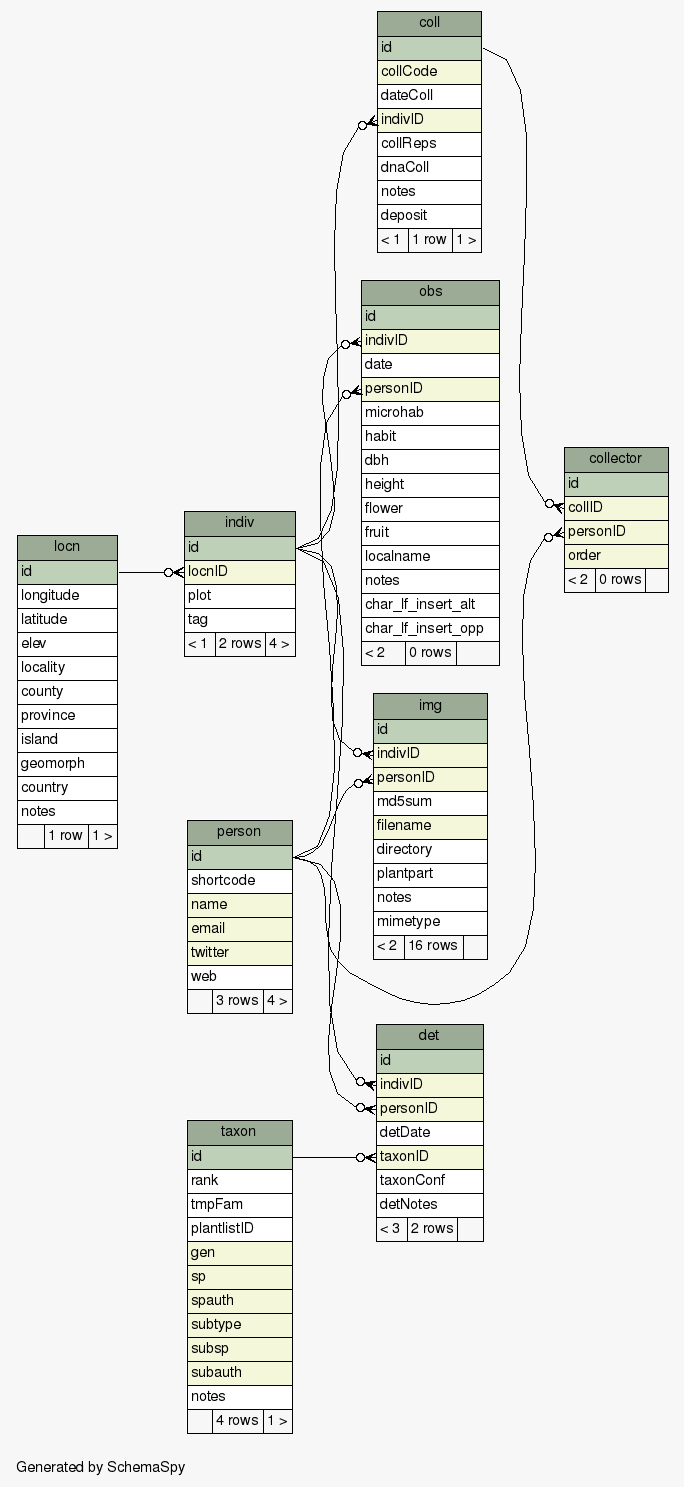
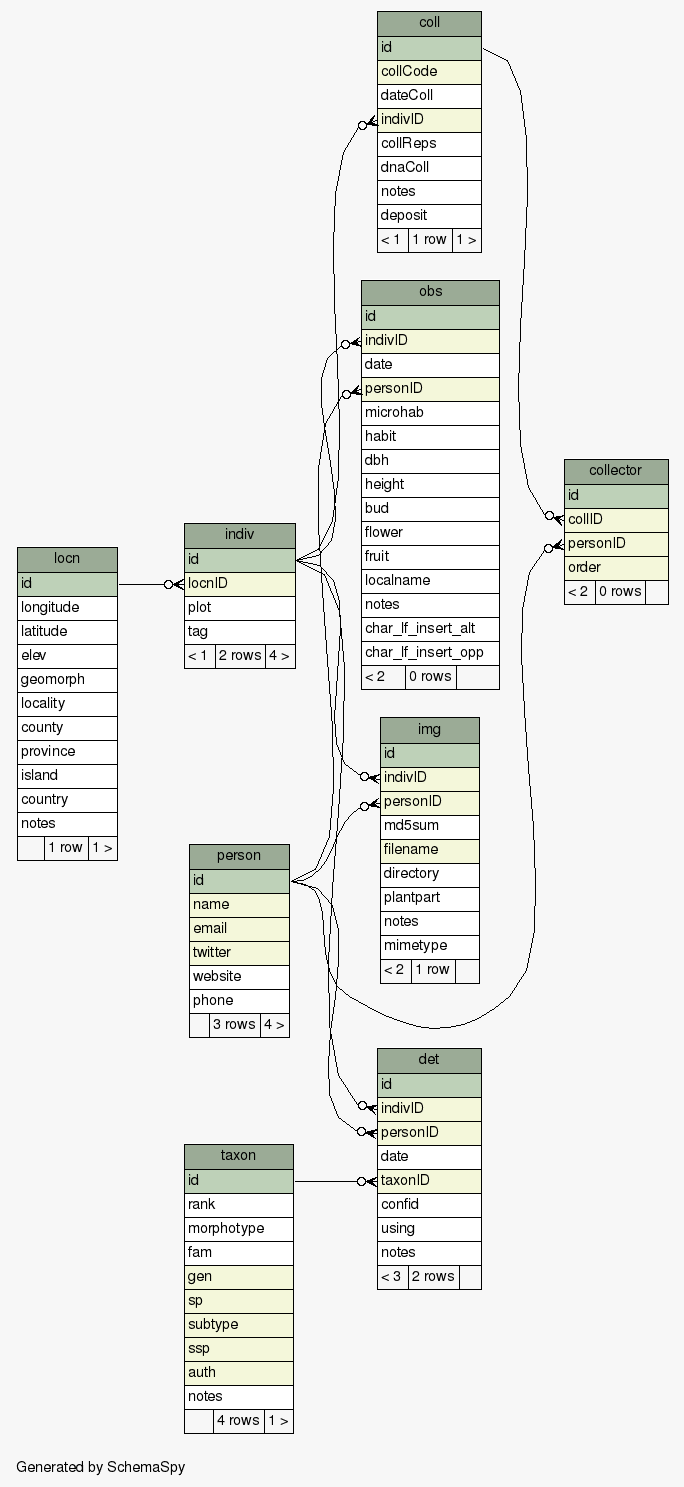
~complete DB specifications

diff --git a/doc/spreadsheet2db.md b/doc/spreadsheet2db.md
@@ -1,0 +1,81 @@
+# Guide for converting bulk spreadsheet entries to DB
+
+ * Key `spreadsheet_column` -> (Validation) -> `DB.field`; Notes
+ * Note: defaults are set in the DB
+ * Algorithm: 
+    * Read all lines of `Taxon`, and _for those that are referenced
+      in_ `Plant`, _and_ do not have a _valid_ `db_id`, create new
+      records (see below), storing the `taxon.id` values.
+    * Read all lines of `Person`, and _for those that are referenced
+      in_ `Plant`, _and_ do not have a _valid_ `db_id`, create new
+      records (see below), storing the `person.id` values.
+    * Read all lines of `Location`, and _for those that are referenced
+      in_ `Plant`, create new records, storing the `locn.id` values.
+
+## Sheet: Taxon
+
+For each row, if `db_id` NOT present, create new `taxon` record
+
+ * `unique_key`; ignore 
+ * `morphotype` -> (regex: `[A-Za-z0-9_]*`) -> `taxon.morphotype`
+ * `fam`, `gen`, `sp`, `auth`, `subtype`, `ssp`, `ssp_auth` -> (Free
+   text) -> `taxon.fam`, `taxon.gen`, `taxon.sp`,
+   `taxon.subtype`, `taxon.ssp`, `taxon.auth`
+ 
+## Sheet: Person
+
+For each row, if `db_id` NOT present, create new `person` record
+
+ * `unique_key`; disregard 
+ * `name`, `email`, `twitter`, `website` -> (Free
+   text) -> `name`, `email`, `twitter`, `website`
+ * `phone` -> (No leading zero or +) -> `phone`
+
+## Location
+
+ * `unique_id`; ignore
+ * `long` -> (Float) -> `locn.longitude`
+ * `lat` -> (Float) -> `locn.latitude`
+ * `elev` -> (Integer) -> `locn.elev`
+ * `geomorphology`, `locality`, `county`, `province`, `island`,
+   `country`, `notes` -> (Free text) -> `locn.geomorph`,
+   `locn.locality`, `locn.county`, `locn.province`, `locn.island`,
+   `locn.country`, `locn.notes`
+
+## Sheet: Plants
+
+Automatically triggers creation of a _new_ `obs` and `det` record.
+
+ * `unique_key`; temporary joining key, not entered into DB 
+ * `date` → (Date) -> `obs.date` 
+ * `obs_by` -> (existing `shortcode` in `Person` table) -> `obs.personID` 
+ * `locn` -> () -> `indiv.locnID`; _after_ creation of new location
+ * `microhab` -> (Free text) -> `bos.microhab`
+ * `plot` -> (Free text) -> `indiv.plot`
+ * `tag` -> (Free text) -> `indiv.tag`
+ * `habit` -> (Valid enum value) -> `obs.habit`
+ * `dbh` -> (Float) -> `obs.dbh`; make sure the first digit of the
+   decimal is preserved
+ * `height` -> (Float) -> `obs.height`; make sure the first two digits
+   of the decimal are preserved
+ * `bud` -> (`yes` or `no`) -> `obs.bud`
+ * `flower` -> (`yes` or `no`) -> `obs.flower`
+ * `fruit` -> (`yes` or `no`) -> `obs.fruit`
+ * `notes` -> (Free text) -> `obs.notes`
+ * `det` -> (existing `unique_key` in `Taxon` table); see Taxon table notes
+ * `confid` -> (Valid enum value) -> `det.confid`
+ * `det_by` -> (existing `person.shortcode` in DB) -> `det.personID`
+ * `det_date` -> (Date) -> `det.date`
+ * `det_using` -> (Free text) -> `det.using`
+ * `det_notes` -> (Free text) -> `det.notes`
+
+## Sheet: Photo
+
+ * `filename` -> (Unique for the given photographer) -> `img.filename`
+ * `tree_id` -> (Valid `indiv.id` via lookup of created individual) ->
+   `img.indivID`
+ * `photographer` -> (Valid `person.id` via lookup of Person) ->
+   `img.personID`
+ * `plant_part` -> (Valid enum value) -> `img.plantpart`
+ * `notes` -> (Free text) -> `img`.`notes`
+

diff --git a/doc/README.md b/doc/README.md
@@ -1,0 +1,5 @@
+To produce the schema:
+
+      java -jar .../schemaSpy_5.0.0.jar -t mysql -db flora-kalbar -u \
+      XXXX -p XXXX -o db_schema/ -dp .../mysql-connector-java-5.1.5-bin.jar \
+      -host 127.0.0.1
